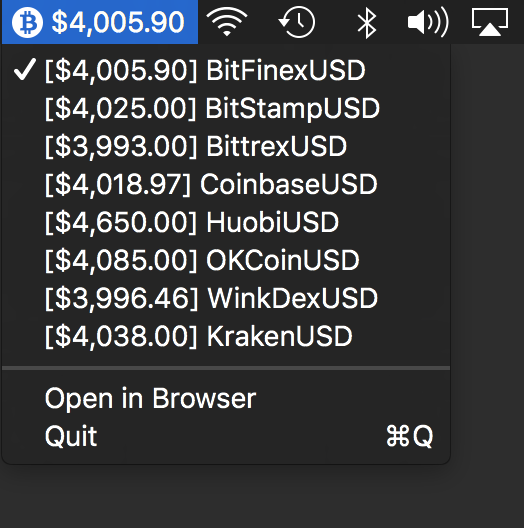
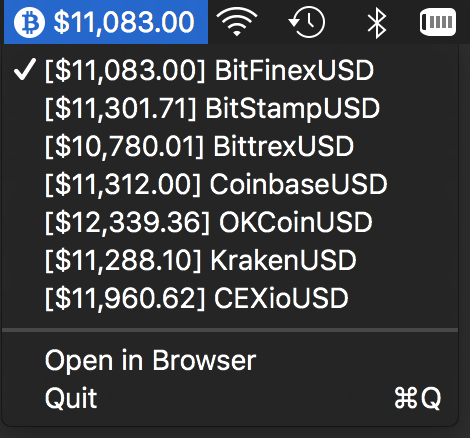
Update release notes

diff --git a/README.md b/README.md
@@ -1,5 +1,4 @@
-btcbar
-======
+# btcbar
 
 A tiny status bar widget for OS X that displays the latest USD/BTC spot price from several exchanges.
 
@@ -19,9 +18,9 @@ Simply place btcbar.app in your `/Applications` folder, and optionally add it to
 
 ## Download
 
-The current version of btcbar (2.4.0) can be downloaded here:
+The current version of btcbar (2.5.0) can be downloaded here:
 
-https://github.com/nearengine/btcbar/releases/download/v2.4.0/btcbar_2_4_0.zip
+https://github.com/nearengine/btcbar/releases/download/v2.5.0/btcbar_2_5_0.zip
 
 It requires OS X 10.7+ and a 64-bit processor.
 
@@ -33,4 +32,4 @@ Requires Cocoapods. Run `pod install` in the project directory and open `btcbar.
 
 If for some reason you feel like donating a few micro btc to future development, those should go here:
 
-`1D3NtjVFpoXonqk3MZwsYD9iV5WA7MRXUj`
+`1MJqAUhwNHRTLggFNsau8m3mBF7GWXCdDa`

diff --git a/CHANGELOG.md b/CHANGELOG.md
@@ -1,5 +1,11 @@
-changelog
-=========
+# changelog
+
+# 2.5.0
+
+* #27 Remove Huobi
+* #29 Add CEX.io
+* #30 Fix intermittent crash
+* #31 Remove Winkdex
 
 # 2.4.0
 
@@ -21,6 +27,7 @@ changelog
 * Tickers are now sorted alphabetically
 
 TODO:
+
 * Implement multiple currency pair support on tickers in the near future to support switching between currencies.
 * Make ticker loading and default ticker handling more robust so they can be swapped out or plugged in easier.
 * Implement self-updates from within the app
@@ -67,6 +74,7 @@ TODO:
 * Adds Bitstamp and Coinbase, and a little better backend abstraction so it will be easier to add future tickers.
 
 TODO:
+
 * Live updating prices for each menu item in the dropdown
 * More robust abstraction of tickers/dynamic menu
 
